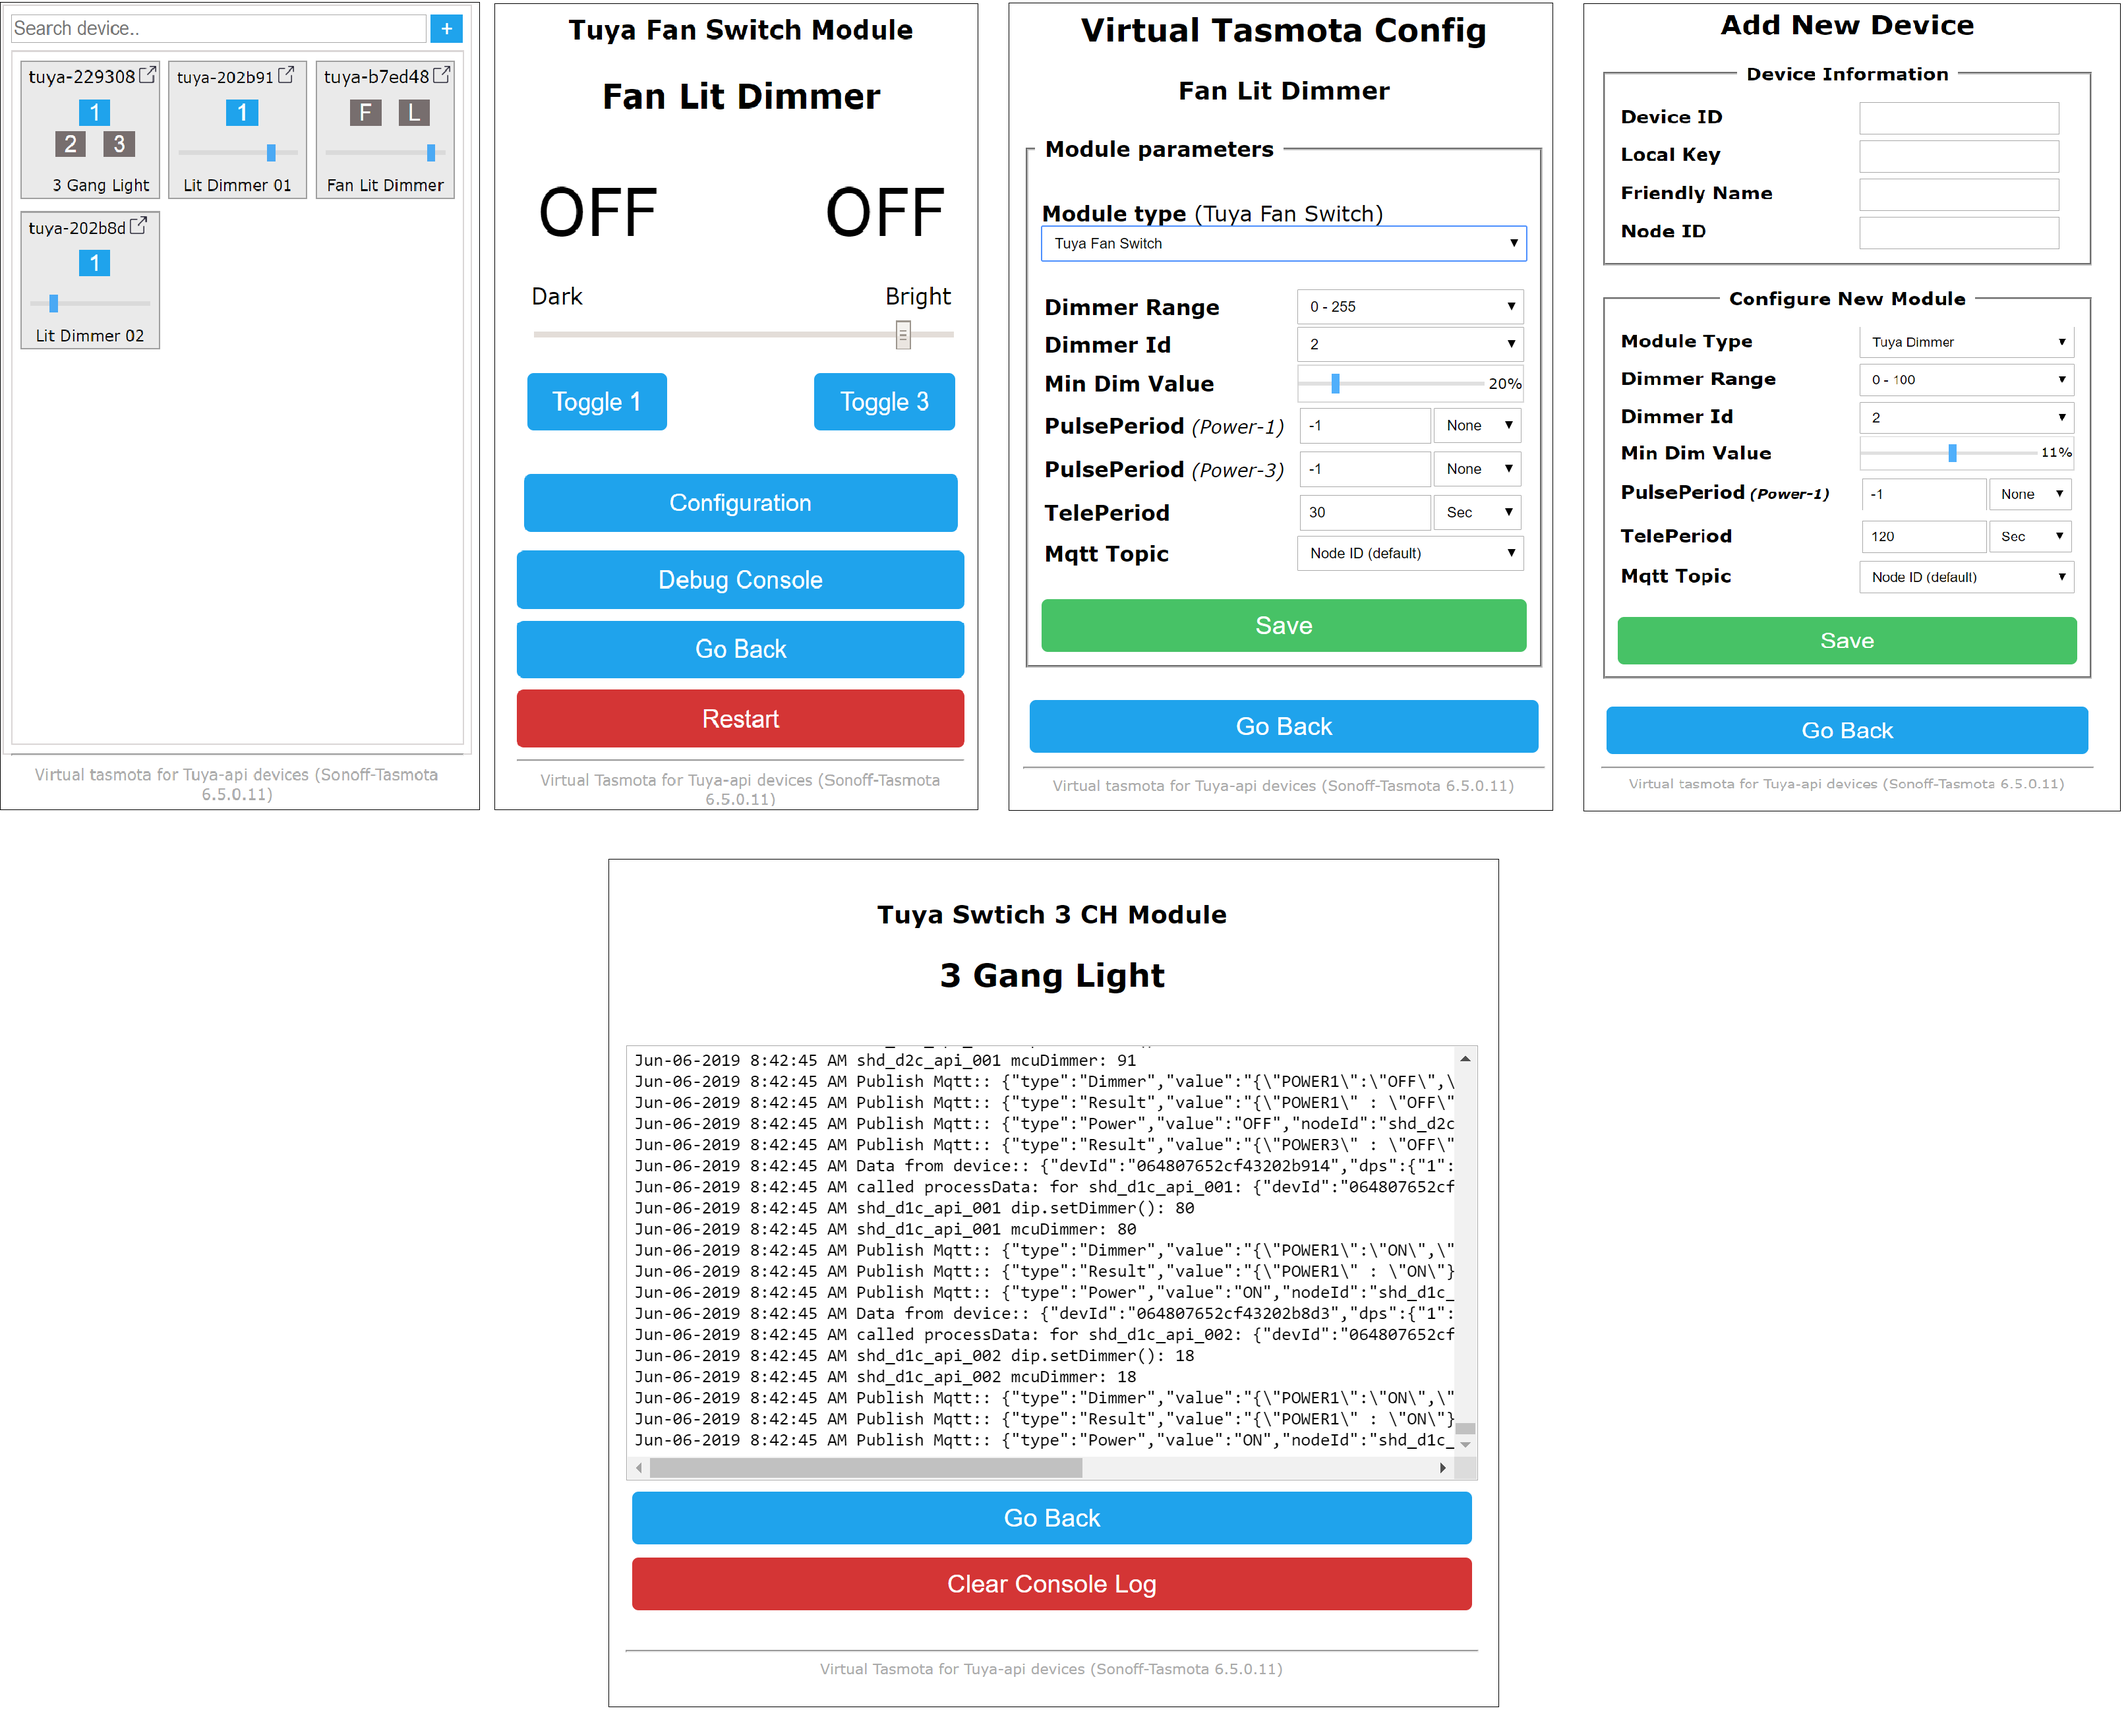
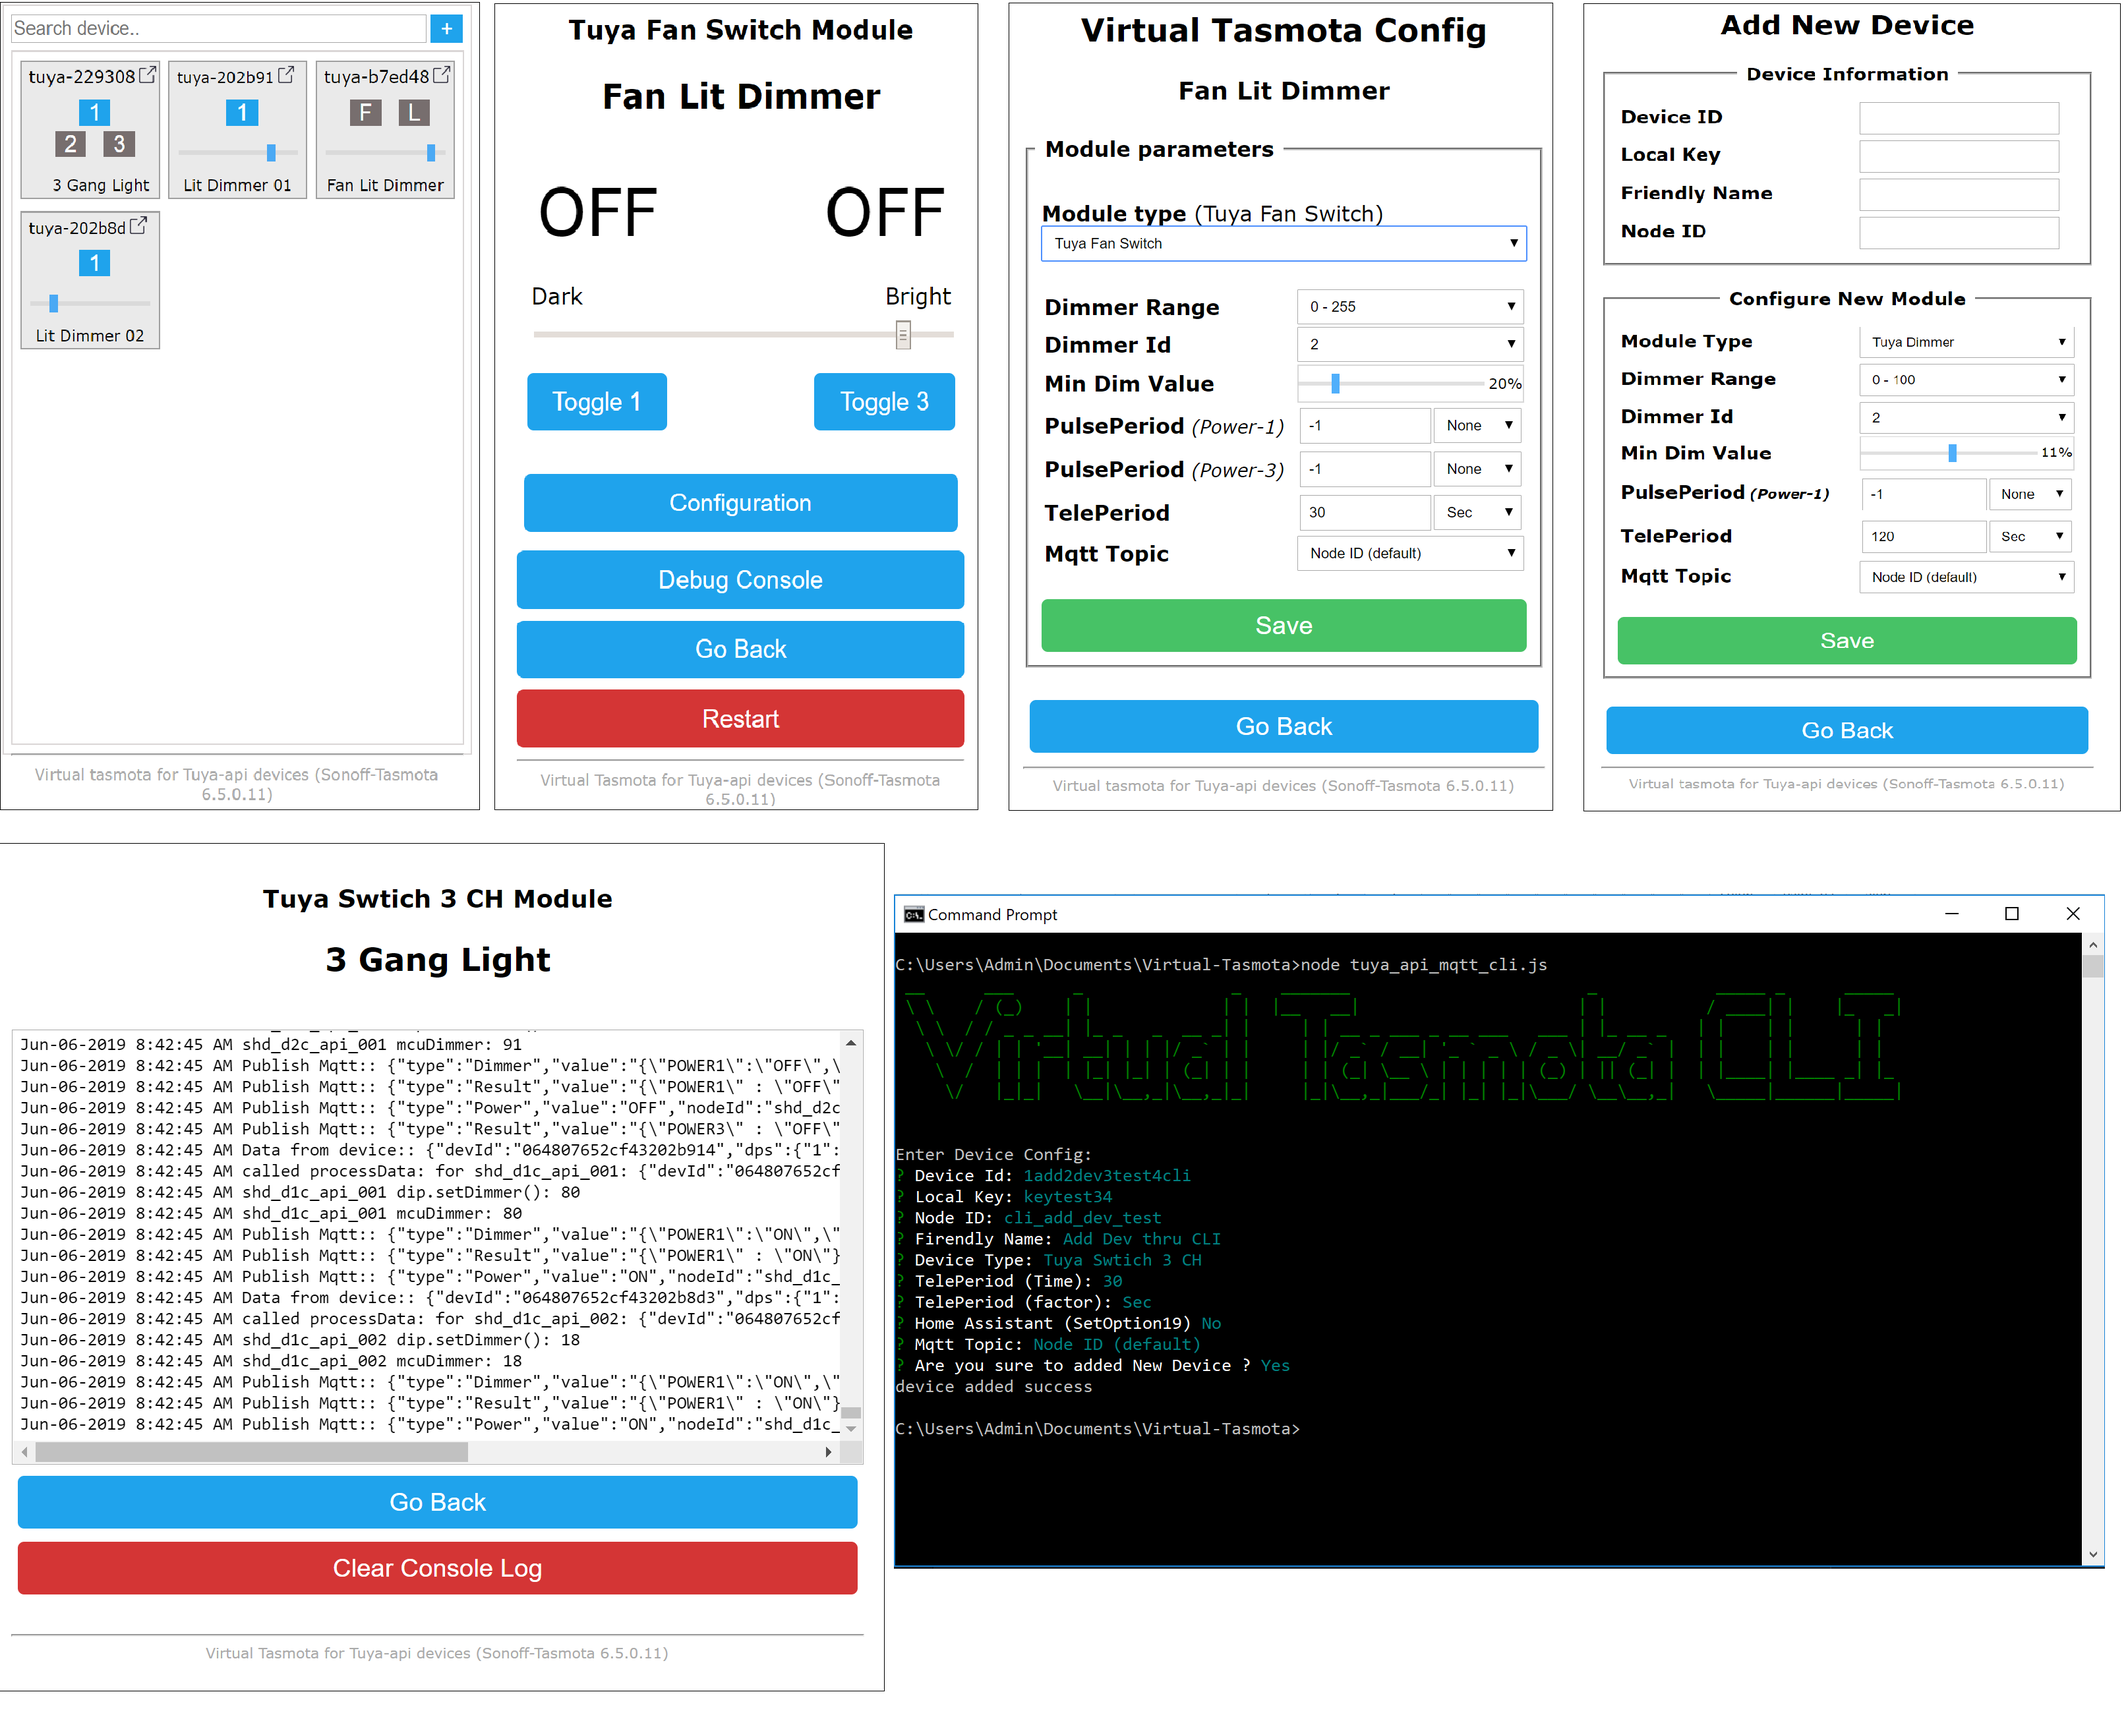
CLI suuport for new device

Changed region(s): [[0.0, 0.4958, 0.9913, 0.9916]]

diff --git a/tuya_api_mqtt_cli.js b/tuya_api_mqtt_cli.js
@@ -1,0 +1,129 @@
+var inquirer = require('inquirer');
+var n$ = require('./JsNodeFix.js');
+var util = require('./Utility.js');
+
+const chalk = require("chalk");
+const figlet = require("figlet");
+
+  console.log(
+    chalk.green(
+      figlet.textSync("Virtual  Tasmota  CLI", {
+        font: "big",
+        horizontalLayout: "default",
+        verticalLayout: "default"
+      })
+    )
+  );
+var questions = [
+  {
+    type: 'input',
+    name: 'devId',
+    message: 'Device Id:'
+  },
+  {
+    type: 'input',
+    name: 'localKey',
+    message: 'Local Key:'
+  },
+  {
+    type: 'input',
+    name: 'localKey',
+    message: 'Node ID:'
+  },
+  {
+    type: 'input',
+    name: 'localKey',
+    message: 'Firendly Name:'
+  },
+  {
+    type: 'list',
+    name: 'deviceType',
+    message: 'Device Type:',
+    choices: [{name: 'Tuya Dimmer',value: 'tuya_dimmer'},{name: 'Tuya Fan Switch',value: 'tuya_switch_fan'},{name: 'Tuya Swtich 1 CH',value: 'tuya_switch_ch1'},{name: 'Tuya Swtich 2 CH', value: 'tuya_switch_ch2'},{name: 'Tuya Swtich 3 CH', value: 'tuya_switch_ch3'},{name: 'Tuya Swtich 4 CH', value: 'tuya_switch_ch4'}],
+    filter: function(val)
+	{
+      return val.toLowerCase();
+    }
+  },
+  {
+    type: 'input',
+    name: 'telePeriod.time',
+    message: 'TelePeriod (Time):',
+	default:'15',
+    validate: function(value)
+	{
+      var valid = !isNaN(parseFloat(value));
+      return valid || 'Please enter a number';
+    },
+    filter: Number
+  },
+  {
+    type: 'list',
+    name: 'telePeriod.factor',
+    message: 'TelePeriod (factor):',
+    choices: [{value: 's', name :'Sec'}, {value: 'm', name :'Min'}, {value: 'h', name :'Hour'}, {value: 'n', name :'None'}],
+    filter: function(val)
+	{
+      return val.toLowerCase();
+    }
+  },
+  {
+	type: 'confirm',
+    name: 'setOption',
+    message: 'Home Assistant (SetOption19)',
+    default:false
+  },
+  {
+    type: 'list',
+    name: 'topic',
+    message: 'Mqtt Topic:',
+    choices: [{value: 'nodeId', name :'Node ID (default)'}, {value: 'devId', name :'Device ID'}, {value: 'key', name :'Local Key'}, {value: 'friendlyName', name :'Friendly Name'}],
+    filter: function(val)
+	{
+      return val.toLowerCase();
+    }
+  },
+  {
+	type: 'confirm',
+    name: 'ready',
+    message: 'Are you sure to added New Device ?',
+    default:true
+  }
+];
+console.log('test');
+inquirer.prompt(questions).then(answers => {
+
+  console.log("req :" , {query: {dev: JSON.stringify(answers)}});
+  //var req = JSON.stringify({query: {dev : answers}});
+  //console.log('Device Infromation: ' + req);
+  //util.addNewTasmotaDev(req);
+  console.log('Device Added Successfully !!!!');
+});
+/*
+var dev = n$.LinqIt(util.deviceTypes).Where([{PropertyName:'devId', ProvertyValue:answers.devId}, {PropertyName:'localKey', ProvertyValue:answers.localKey}]).FirstOrDefault();
+
+console.log(dev);
+
+var questions2 = [
+  {
+    type: 'input',
+    name: 'devId',
+    message: 'do you wanDevice Id:'
+  },
+  {
+    type: 'input',
+    name: 'localKey',
+    message: 'Local Key:'
+  },
+    {
+    type: 'input',
+    name: 'localKey',
+    message: 'Node ID:'
+  }
+ ];
+
+inquirer.prompt(questions2).then(answers => {
+  console.log('\Device Infromation:');
+  console.log(JSON.stringify(answers, null, '  '));
+});
+*/
